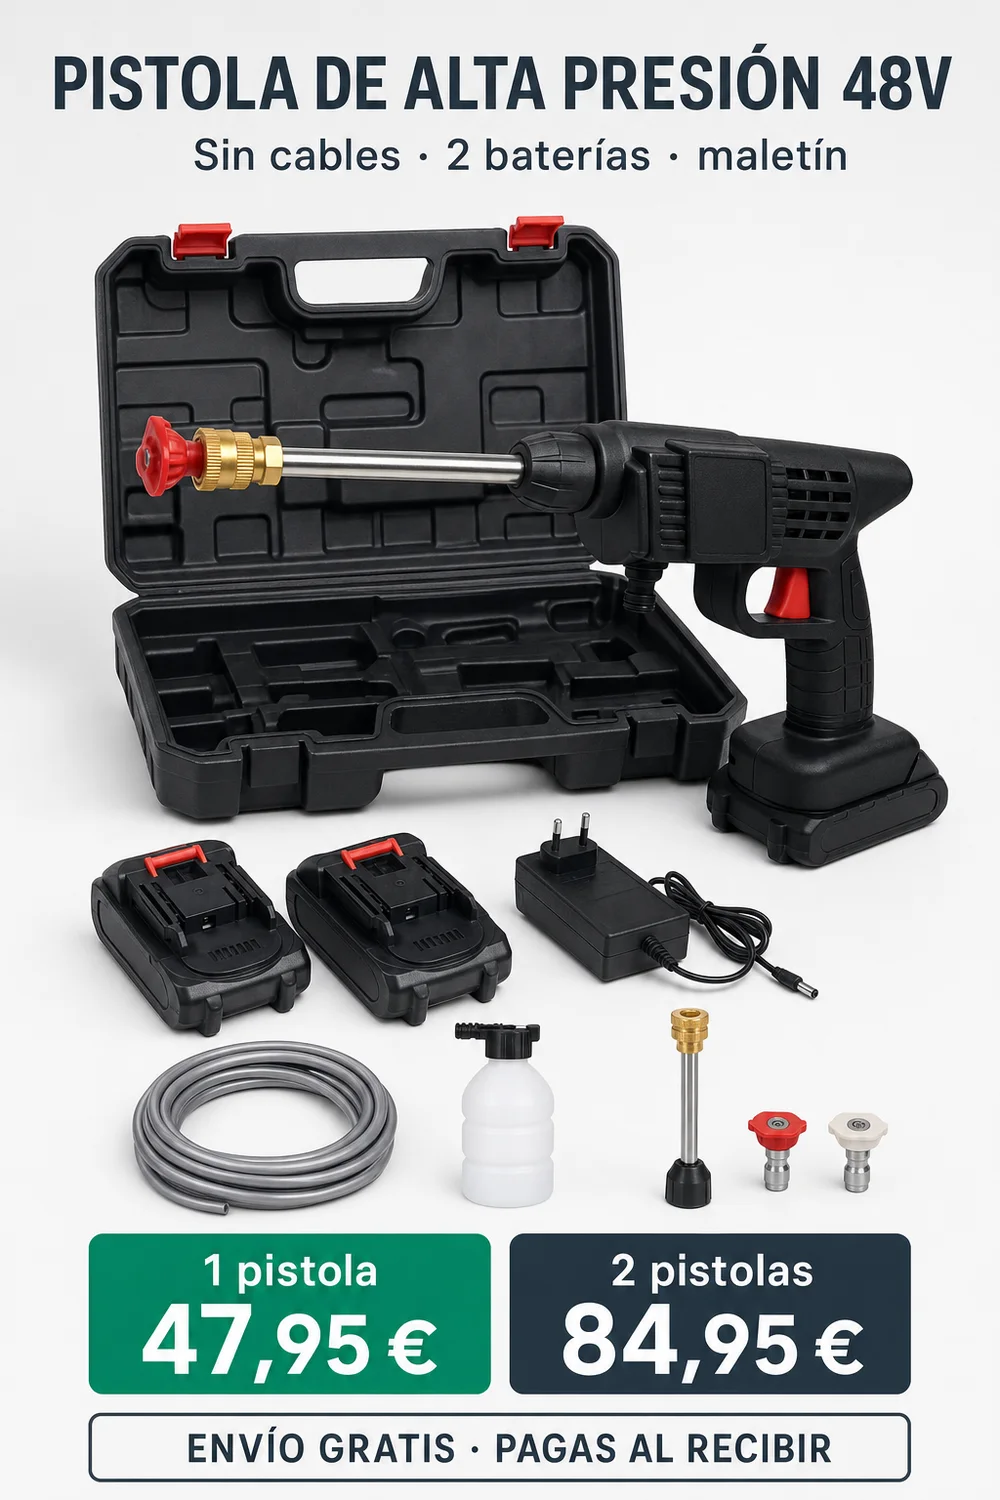
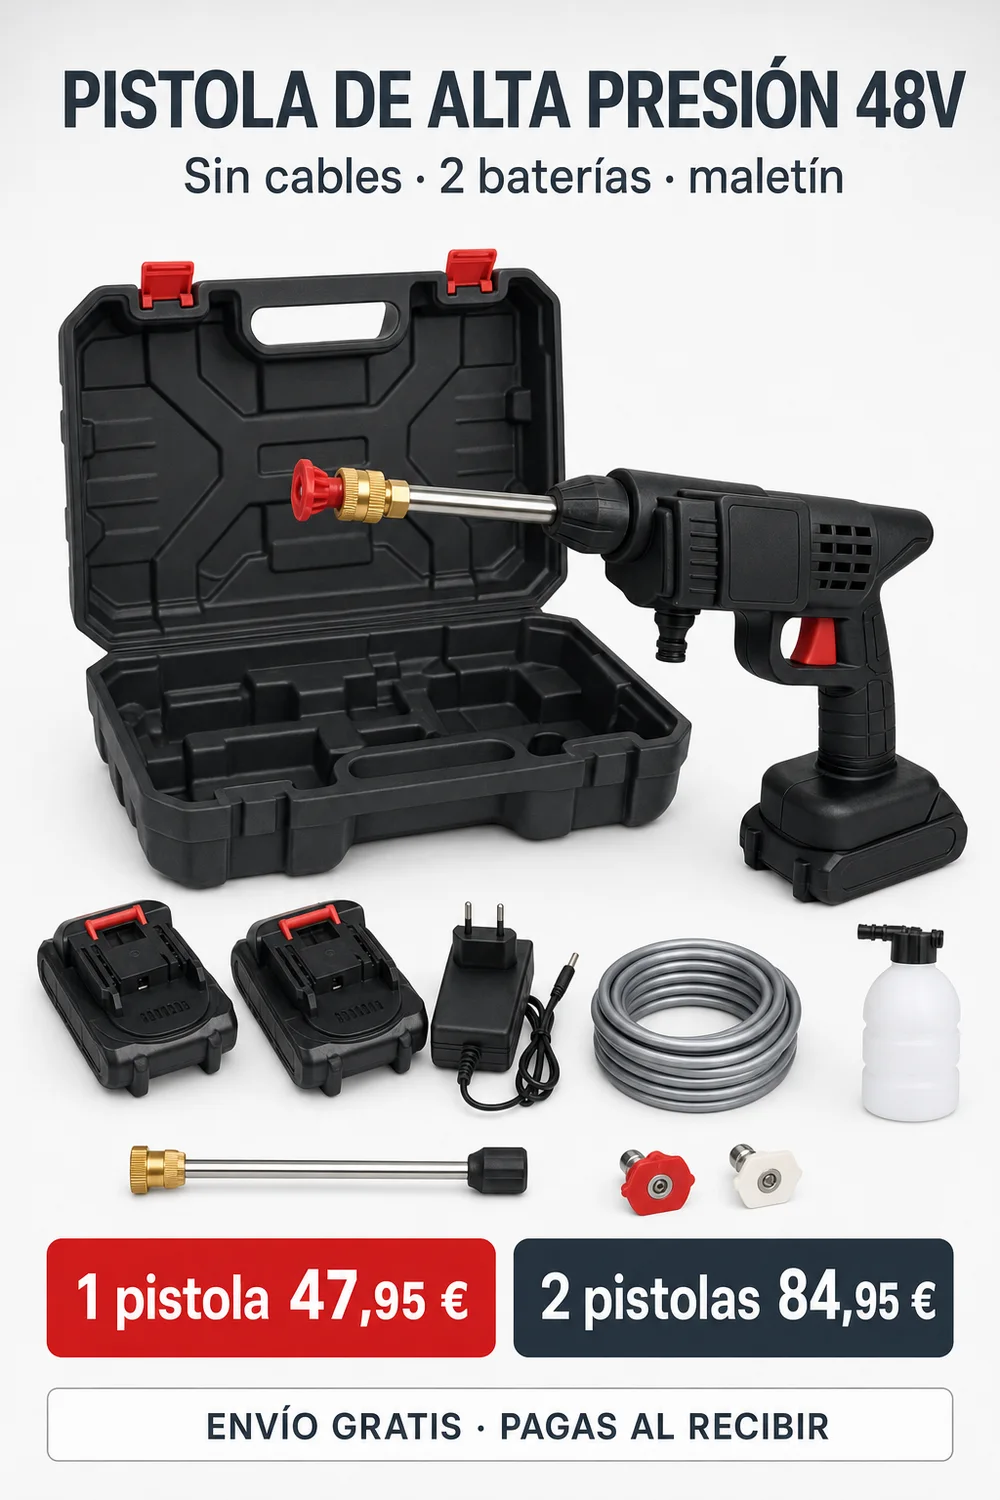
Pistola: acento en el rojo del producto (botones, detalles y promo), no verde

diff --git a/pistola.css b/pistola.css
@@ -6,18 +6,20 @@
      · Estilo  minimalista suizo: limpio, mucho aire, alto contraste, cuadrícula,
                letras sin remate, movimiento corto (200-250 ms).
      · Color   #334155 pizarra (principal) · #475569 pizarra clara (secundario)
-               · #059669 verde (acción) · #F8FAFC fondo · #0F172A texto
+               · #DC2626 ROJO del producto (acción; la skill decía verde #059669 y James lo corrigió el 09-10) · #F8FAFC fondo · #0F172A texto
                · #F2F3F4 apagado · #475569 texto secundario · #E6E8EA bordes · #DC2626 aviso
      · Letra   Outfit (títulos, geométrica) + Work Sans (texto y datos)
    Contrastes (WCAG): #0F172A sobre #F8FAFC 17,5:1 · blanco sobre #334155 10,4:1 ·
-   blanco sobre #059669 4,5:1 (texto del botón en 700) · #475569 sobre #F8FAFC 7,3:1.
+   blanco sobre #DC2626 4,8:1 (texto del botón en 700) · #475569 sobre #F8FAFC 7,3:1.
    ============================================================ */
 body.p-pistola {
   --pi-pizarra:  #334155;
   --pi-pizarra2: #475569;
-  --pi-verde:    #059669;
-  --pi-verde2:   #047857;
-  --pi-verdeC:   #ECFDF5;
+  /* 09-10 James: "el producto es rojo, ¿por qué ponen verde?". El acento lo manda el producto: el rojo de los cierres,
+     el gatillo y la batería del kit. El verde de la skill queda fuera; pizarra, fondo, texto y bordes siguen igual. */
+  --pi-verde:    #DC2626;
+  --pi-verde2:   #B91C1C;
+  --pi-verdeC:   #FEF2F2;
   --pi-fondo:    #F8FAFC;
   --pi-tinta:    #0F172A;
   --pi-gris:     #475569;
@@ -50,8 +52,8 @@ body.p-pistola #prod h2.pi-tit::after { content: ''; position: absolute; left: 0
 
 /* ---------- HÉROE: foto entera, tarjeta de texto pizarra con filo verde ---------- */
 body.p-pistola .heroP {
-  --crema: #334155; --rosa: #1E293B; --rosaF: #059669;
-  --tinta: #F8FAFC; --tinta2: #CBD5E1; --oro: #059669; --oroOsc: #047857;
+  --crema: #334155; --rosa: #1E293B; --rosaF: #DC2626;
+  --tinta: #F8FAFC; --tinta2: #CBD5E1; --oro: #DC2626; --oroOsc: #B91C1C;
   background: var(--pi-pizarra);
 }
 body.p-pistola .heroP__marco, body.p-pistola .heroP__img { background: #1E293B; }
@@ -61,22 +63,22 @@ body.p-pistola .heroP__fundido { background: linear-gradient(to top, #334155 4%,
 body.p-pistola .heroP__luces { display: none; }
 body.p-pistola .heroP__txt {
   position: relative; z-index: 3; margin: -10px 14px 0; padding: 22px 20px 20px;
-  background: rgba(51,65,85,.94); border: 1px solid rgba(5,150,105,.5); border-left: 4px solid var(--pi-verde); border-radius: 6px;
+  background: rgba(51,65,85,.94); border: 1px solid rgba(220,38,38,.5); border-left: 4px solid var(--pi-verde); border-radius: 6px;
   box-shadow: 0 24px 48px rgba(15,23,42,.35);
 }
 body.p-pistola .heroP .heroP__h1 { font-family: var(--pi-tit); font-weight: 700; font-style: normal; font-size: clamp(30px, 8.4vw, 44px); line-height: 1.04; color: #F8FAFC; letter-spacing: -.01em; }
-body.p-pistola .heroP .heroP__h1 b, body.p-pistola .hCas__w.es-oro .hCas__l { color: #6EE7B7; font-weight: 700; font-style: normal; }
+body.p-pistola .heroP .heroP__h1 b, body.p-pistola .hCas__w.es-oro .hCas__l { color: #FCA5A5; font-weight: 700; font-style: normal; }
 body.p-pistola #prod .heroP__sub { font-size: 15.5px; line-height: 1.6; color: #CBD5E1; }
-body.p-pistola .heroP__kicker { font: 600 11px var(--pi-txt); letter-spacing: .18em; text-transform: uppercase; color: #A7F3D0; background: rgba(5,150,105,.18); border-color: rgba(5,150,105,.55); }
+body.p-pistola .heroP__kicker { font: 600 11px var(--pi-txt); letter-spacing: .18em; text-transform: uppercase; color: #FECACA; background: rgba(220,38,38,.18); border-color: rgba(220,38,38,.55); }
 body.p-pistola .heroP__kicker i { background: var(--pi-verde); }
 body.p-pistola .heroP__nota { background: #F8FAFC; color: var(--pi-tinta); font-family: var(--pi-txt); border-radius: 6px; }
 body.p-pistola .heroP__nota * { color: var(--pi-tinta); }
 body.p-pistola .heroP__nota svg, body.p-pistola .heroP__nota svg * { fill: var(--pi-verde); color: var(--pi-verde); }
 body.p-pistola .heroP__dato { font: 600 12px var(--pi-txt); color: #E2E8F0; background: rgba(71,85,105,.75); border-color: rgba(203,213,225,.25); border-radius: 6px; }
-body.p-pistola .heroP__dato svg { color: #6EE7B7; }
-body.p-pistola .heroP__dato--oro { background: rgba(5,150,105,.25); border-color: rgba(5,150,105,.6); }
-body.p-pistola .heroP__ahorra { background: rgba(5,150,105,.18); border-color: rgba(110,231,183,.4); color: #D1FAE5; }
-body.p-pistola .heroP__ahorra b, body.p-pistola .heroP__ahorra svg { color: #6EE7B7; }
+body.p-pistola .heroP__dato svg { color: #FCA5A5; }
+body.p-pistola .heroP__dato--oro { background: rgba(220,38,38,.25); border-color: rgba(220,38,38,.6); }
+body.p-pistola .heroP__ahorra { background: rgba(220,38,38,.18); border-color: rgba(252,165,165,.4); color: #FEE2E2; }
+body.p-pistola .heroP__ahorra b, body.p-pistola .heroP__ahorra svg { color: #FCA5A5; }
 body.p-pistola .heroP__precio span { font-family: var(--pi-txt); color: #94A3B8; }
 body.p-pistola .heroP__precio b { font-family: var(--pi-tit); font-weight: 700; font-size: 1.25em; color: #F8FAFC; font-variant-numeric: tabular-nums; }
 body.p-pistola .heroP__wa { font-family: var(--pi-txt); color: #E2E8F0; }
@@ -93,10 +95,10 @@ body.p-pistola .heroP__cta, body.p-pistola #prod .cta, body.p-pistola #prod .pi-
   width: 100% !important; height: 56px !important; min-height: 56px; padding: 0 18px !important;
   font: 700 15px/1 var(--pi-txt) !important; letter-spacing: .04em; text-transform: uppercase; white-space: nowrap; text-decoration: none;
   border-radius: 6px !important; border: 0 !important; background: var(--pi-verde) !important; color: #fff !important;
-  box-shadow: 0 12px 24px rgba(5,150,105,.28); cursor: pointer;
+  box-shadow: 0 12px 24px rgba(220,38,38,.28); cursor: pointer;
   transition: background .2s ease, box-shadow .2s ease, transform .15s var(--pi-rapido);
 }
-body.p-pistola .heroP__cta:hover, body.p-pistola #prod .cta:hover, body.p-pistola #prod .pi-cta:hover, body.p-pistola .btn-flota:hover { background: var(--pi-verde2) !important; box-shadow: 0 16px 28px rgba(4,120,87,.32); }
+body.p-pistola .heroP__cta:hover, body.p-pistola #prod .cta:hover, body.p-pistola #prod .pi-cta:hover, body.p-pistola .btn-flota:hover { background: var(--pi-verde2) !important; box-shadow: 0 16px 28px rgba(185,28,28,.32); }
 body.p-pistola .heroP__cta:active, body.p-pistola #prod .cta:active, body.p-pistola #prod .pi-cta:active { transform: scale(.98); }
 body.p-pistola .heroP__cta:focus-visible, body.p-pistola #prod .cta:focus-visible, body.p-pistola #prod .pi-cta:focus-visible, body.p-pistola .btn-flota:focus-visible { outline: 3px solid var(--pi-pizarra); outline-offset: 3px; }
 body.p-pistola #prod .cta.azul { background: transparent !important; color: var(--pi-pizarra) !important; border: 1.5px solid var(--pi-pizarra) !important; box-shadow: none; }
@@ -123,13 +125,13 @@ body.p-pistola .pi-num { display: block; font: 700 56px/1 var(--pi-tit); color: 
 /* 1 · dónde se usa (oscuro pizarra, cuadrícula de usos) */
 body.p-pistola .pi-usos { background: var(--pi-pizarra); color: #fff; }
 body.p-pistola .pi-usos .pi-h2 { color: #F8FAFC; }
-body.p-pistola .pi-usos .pi-cap { color: #A7F3D0; }
-body.p-pistola .pi-usos .pi-cap::before { background: #6EE7B7; }
+body.p-pistola .pi-usos .pi-cap { color: #FECACA; }
+body.p-pistola .pi-usos .pi-cap::before { background: #FCA5A5; }
 body.p-pistola #prod .pi-usos .pi-lead { color: #CBD5E1; }
 body.p-pistola .pi-grid { list-style: none; margin: 8px 0 0; padding: 0; display: grid; grid-template-columns: 1fr 1fr; gap: 1px; background: rgba(203,213,225,.2); border-radius: 6px; overflow: hidden; }
 @media (min-width: 768px) { body.p-pistola .pi-grid { grid-template-columns: repeat(3, 1fr); } }
 body.p-pistola .pi-grid li { display: grid; gap: 8px; align-content: start; padding: 16px 14px; background: var(--pi-pizarra); }
-body.p-pistola .pi-grid li svg { width: 26px; height: 26px; fill: none; stroke: #6EE7B7; stroke-width: 1.7; stroke-linecap: round; stroke-linejoin: round; }
+body.p-pistola .pi-grid li svg { width: 26px; height: 26px; fill: none; stroke: #FCA5A5; stroke-width: 1.7; stroke-linecap: round; stroke-linejoin: round; }
 body.p-pistola .pi-grid b { display: block; font: 600 17px/1.2 var(--pi-tit); color: #F8FAFC; }
 body.p-pistola #prod .pi-grid span { font-size: 13.5px; line-height: 1.45; color: #CBD5E1; }
 /* 2 · el kit (tres fotos reales) */
@@ -153,7 +155,7 @@ body.p-pistola #prod .form-sec :has(> .ing) { display: grid; grid-template-colum
 body.p-pistola #prod .form-sec .ing { display: flex; flex-direction: column; gap: 10px; margin: 0; padding: 18px 14px; background: #fff; border: 1px solid var(--pi-borde); border-radius: 6px; transition: border-color .2s ease, box-shadow .2s ease; }
 body.p-pistola #prod .form-sec .ing:hover { border-color: var(--pi-pizarra2); box-shadow: 0 10px 22px rgba(15,23,42,.08); }
 body.p-pistola #prod .form-sec .ing .cir { width: 44px; height: 44px; border-radius: 6px; background: var(--pi-pizarra); display: grid; place-items: center; border: 0; }
-body.p-pistola #prod .form-sec .ing .cir svg { width: 22px; height: 22px; stroke: #6EE7B7; fill: none; stroke-width: 1.8; stroke-linecap: round; stroke-linejoin: round; }
+body.p-pistola #prod .form-sec .ing .cir svg { width: 22px; height: 22px; stroke: #FCA5A5; fill: none; stroke-width: 1.8; stroke-linecap: round; stroke-linejoin: round; }
 body.p-pistola #prod .form-sec .ing b { font: 600 18px/1.15 var(--pi-tit); color: var(--pi-tinta); display: block; }
 body.p-pistola #prod .form-sec .ing p { font-size: 14px; line-height: 1.5; margin: 4px 0 0; }
 
@@ -161,9 +163,9 @@ body.p-pistola #prod .form-sec .ing p { font-size: 14px; line-height: 1.5; margi
 body.p-pistola #prod .vid-wrap { background: var(--pi-pizarra); padding-top: 44px; padding-bottom: 34px; }
 body.p-pistola #prod .pi-vcab { padding: 0 18px 18px; }
 body.p-pistola #prod .pi-vcab .pi-h2 { color: #F8FAFC; }
-body.p-pistola #prod .pi-vcab .pi-cap { color: #A7F3D0; }
-body.p-pistola #prod .pi-vcab .pi-cap::before { background: #6EE7B7; }
-body.p-pistola #prod .vid-prod, body.p-pistola #prod .vid-wrap video { background: #000; border-radius: 6px; box-shadow: 0 0 0 1px rgba(5,150,105,.4), 0 22px 46px rgba(0,0,0,.45); }
+body.p-pistola #prod .pi-vcab .pi-cap { color: #FECACA; }
+body.p-pistola #prod .pi-vcab .pi-cap::before { background: #FCA5A5; }
+body.p-pistola #prod .vid-prod, body.p-pistola #prod .vid-wrap video { background: #000; border-radius: 6px; box-shadow: 0 0 0 1px rgba(220,38,38,.4), 0 22px 46px rgba(0,0,0,.45); }
 
 /* ---------- promoción, stock, comparativa, opiniones, formulario ---------- */
 body.p-pistola #prod section.desc { background: #fff; }
@@ -177,7 +179,7 @@ body.p-pistola .pi-foto img { display: block; width: 100%; height: auto; border-
 body.p-pistola #prod .form { background: var(--pi-fondo); }
 body.p-pistola #prod .pasoRot { display: flex; align-items: center; gap: 10px; margin: 22px 0 10px; font: 700 14px var(--pi-txt); color: var(--pi-tinta); }
 body.p-pistola #prod .pasoRot:first-of-type { margin-top: 4px; }
-body.p-pistola #prod .pasoRot b { display: grid; place-items: center; width: 24px; height: 24px; border-radius: 6px; background: var(--pi-pizarra); color: #6EE7B7; font-size: 12px; }
+body.p-pistola #prod .pasoRot b { display: grid; place-items: center; width: 24px; height: 24px; border-radius: 6px; background: var(--pi-pizarra); color: #FCA5A5; font-size: 12px; }
 body.p-pistola #prod .pagoSel { display: grid; grid-template-columns: 1fr 1fr; gap: 10px; margin: 0 0 4px; }
 body.p-pistola #prod .pagoOp {
   position: relative; display: grid; grid-template-areas: 'ico' 'tit' 'pr' 'sub'; align-content: start; gap: 2px;
@@ -185,7 +187,7 @@ body.p-pistola #prod .pagoOp {
   background: #fff; font: inherit; text-align: left; cursor: pointer; -webkit-tap-highlight-color: transparent;
   transition: border-color .2s ease, box-shadow .2s ease;
 }
-body.p-pistola #prod .pagoOp.sel { border-color: var(--pi-verde); background: var(--pi-verdeC); box-shadow: 0 0 0 3px rgba(5,150,105,.14); }
+body.p-pistola #prod .pagoOp.sel { border-color: var(--pi-verde); background: var(--pi-verdeC); box-shadow: 0 0 0 3px rgba(220,38,38,.14); }
 body.p-pistola #prod .pagoOp:focus-visible { outline: 2px solid var(--pi-pizarra); outline-offset: 3px; }
 body.p-pistola #prod .pagoOp__ico { grid-area: ico; margin-bottom: 4px; }
 body.p-pistola #prod .pagoOp__ico svg { width: 26px; height: 26px; fill: none; stroke: var(--pi-gris); stroke-width: 1.6; stroke-linecap: round; stroke-linejoin: round; }

diff --git a/producto.html b/producto.html
@@ -36,7 +36,7 @@ setTimeout(function(){document.documentElement.classList.add('ba-visto');},3000)
 <!-- Pulsera antitabaco: diseño PROPIO (ui-ux-pro-max, joyería sobria, 07-10). Solo actúa con ?p=pulsera. -->
 <link rel="stylesheet" href="pulsera.css?v=2">
 <!-- Pistola de alta presión 48 V: diseño PROPIO (ui-ux-pro-max, pizarra industrial + verde, 09-10). Solo actúa con ?p=pistola. -->
-<link rel="stylesheet" href="pistola.css?v=1">
+<link rel="stylesheet" href="pistola.css?v=2">
 <!-- Los CSS de los productos de Chile (organizador, clorofila, lymphoria,
      antena, cargador) NO existen en este repo: daban cinco 404 en cada carga. -->
 <style>
@@ -1192,7 +1192,7 @@ window.jayePixel = (function () {
     </div>
   </footer>
 
-<script src="productos.js?v=244"></script>
+<script src="productos.js?v=245"></script>
 <!-- ESPAÑA: provincias y codigos postales sin cobertura, en vez de las
      regiones y comunas de Chile. -->
 <script src="provincias-es.js?v=110"></script>
@@ -1218,7 +1218,7 @@ window.URL_PEDIDO = 'https://n8n-production-8a42.up.railway.app/webhook/pedido-t
 <script src="sellador.js?v=3"></script>
 <script src="aranazos.js?v=4"></script>
 <script src="pulsera.js?v=2"></script>
-<script src="pistola.js?v=1"></script>
+<script src="pistola.js?v=2"></script>
 <!-- Los js de los productos de Chile (organizador, clorofila, lymphoria,
      antena, cargador) NO van aqui: no existen en este repo y daban 404. -->
 

diff --git a/pistola.js b/pistola.js
@@ -122,7 +122,7 @@
     }
     if (oferta) {
       var ot = oferta.querySelector('h2') || oferta.firstElementChild;
-      if (ot) ot.insertAdjacentHTML('afterend', '<figure class="pi-foto"><img src="img/pistola-promo.webp?v=1" alt="El kit completo de la pistola de alta presión con el cartel de la promoción: 1 pistola 47,95 € y 2 pistolas 84,95 €" loading="lazy" width="1000" height="1500"></figure>');
+      if (ot) ot.insertAdjacentHTML('afterend', '<figure class="pi-foto"><img src="img/pistola-promo.webp?v=2" alt="El kit completo de la pistola de alta presión con el cartel de la promoción: 1 pistola 47,95 € y 2 pistolas 84,95 €" loading="lazy" width="1000" height="1500"></figure>');
     }
     if (compara) { var us = compara.querySelector('th.us'); if (us) us.textContent = 'Pistola 48 V'; }
     return true;

diff --git a/productos.js b/productos.js
@@ -622,7 +622,7 @@ window.PRODUCTOS = [
         ['pago', 'Paga ahora o al recibir'],
       ],
     },
-    acento: '#059669',
+    acento: '#DC2626',   /* 09-10 James: el producto es negro con ROJO (cierres, gatillo, batería): el acento va en rojo, no en verde */
 
     /* Stock REAL leído en el panel de Dropi PRO el 09-10-2026: 5.445.
        Dropdata ES: 82 al día la última semana, 21 de 21 días con venta, mejor día 115. */

diff --git a/index.html b/index.html
@@ -498,7 +498,7 @@ try{ if(!sessionStorage.getItem('jaye_vis_portada_es')){ sessionStorage.setItem(
     </div>
   </footer>
 
-<script src="productos.js?v=241"></script>
+<script src="productos.js?v=242"></script>
 <script src="resenas.js?v=209"></script>
 <script src="tienda.js?v=56"></script>
 
